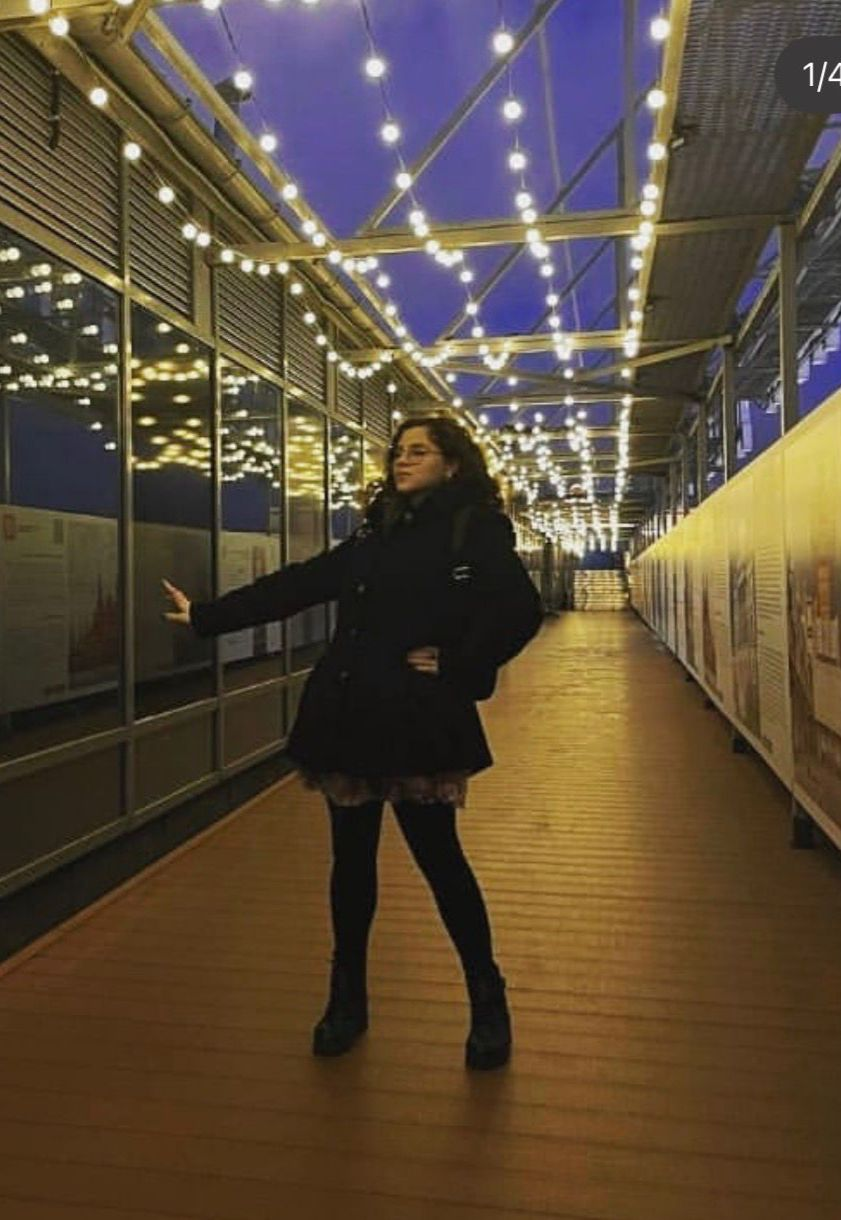
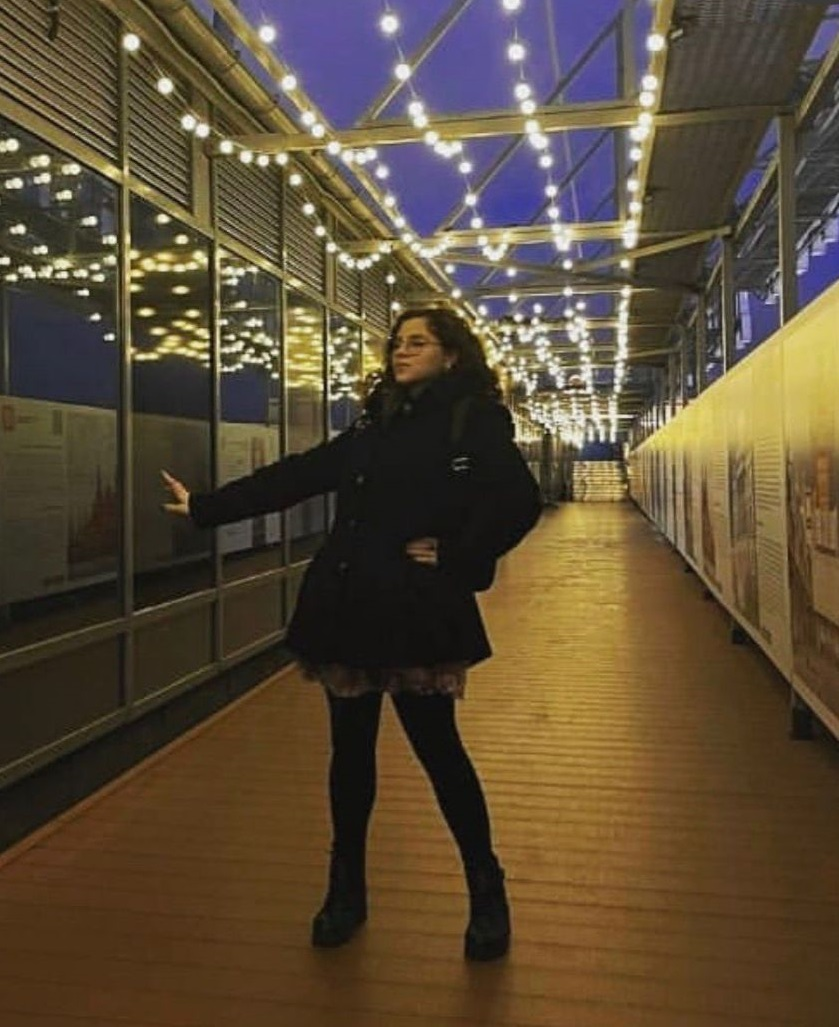
finished html 1st version

diff --git a/index.html b/index.html
@@ -33,7 +33,7 @@
       </div>
       <div class="header_image">
         <img
-          src="/images/WhatsApp Image 2026-04-24 at 13.09.25.jpeg"
+          src="/images/WhatsApp Image 2026-04-24 at 13.08.03.jpeg"
           alt="Foto de perfil de GEPC"
         />
       </div>
@@ -41,12 +41,12 @@
     <body class="skills_and_portfolio">
       <h2 class="skills">Habilidades y herramientas</h2>
       <nav>
-        <img class="icon1" src="images/Group 120570.png" alt="icon"/>
-        <img class="icon2" src="images/Group 2087326844.png" alt="icon"/>
-        <img class="icon3" src="images/Group 120568.svg" alt="icon"/>
-        <img class="icon4" src="images/Group 2087326846.png" alt="icon"/>
-        <img class="icon5" src="images/Group 2087326847.png" alt="icon"/>
-        <img class="icon6" src="images/Group 2087326848.png" alt="icon"/>
+        <img class="icon1" src="/images/Group 120570.png" alt="icon"/>
+        <img class="icon2" src="/images/Group 2087326844.png" alt="icon"/>
+        <img class="icon3" src="/images/Group 120568.svg" alt="icon"/>
+        <img class="icon4" src="/images/Group 2087326846.png" alt="icon"/>
+        <img class="icon5" src="/images/Group 2087326847.png" alt="icon"/>
+        <img class="icon6" src="/images/Group 2087326848.png" alt="icon"/>
       </nav>
       <h2 class="projects_title">Proyectos destacados</h2>
       <nav class="projects_container">
@@ -54,23 +54,48 @@
         <div class="coffeeshop">
           <img
             class="card__image"
-            src="images/Rectangle 3.png"
+            src="/images/Rectangle 3.png"
             alt="tripple_spresso"
           />
           <div class="card__content">
             <div class="card__info">
-              <h2 class="card__title">Página web de una cafeteria</h2>
+              <h3 class="card__title">Página web de una cafeteria</h3>
               <p class="card__description">
                 Desarrollo de una landing page responsiva para una cafetería siguiendo un brief de diseño. Incluye estructura semántica, maquetación con Flexbox, creación de secciones nuevas y un formulario de contacto funcional. Logro: Implementé desde cero el diseño completo de la página, organicé el proyecto con buenas prácticas y publiqué la versión final utilizando GitHub Pages.
               </p>
             </div>
             <a href="#" class="card__link">Leer más →</a>
-            <img src="images/Group 2087326850.png" href="https://github.com/elizabeth5233-dotcom/web_project_coffeeshop_es" class="card__link_github">
+            <img src="/images/Group 2087326850.png" href="https://github.com/elizabeth5233-dotcom/web_project_coffeeshop_es" class="card__link_github">
+          </div>
+        </div>
+      </section>
+      <section class="project_card">
+        <div class="project">
+          <img
+            class="card__image"
+            src="/images/Rectangle 5.png"
+            alt="New project"
+          />
+          <div class="card__content">
+            <div class="card__info">
+              <h3 class="card__title">Mi proyecto</h3>              
+            </div>
+            <a href="#" class="card__link">Leer más →</a>
+            <img src="/images/Group 2087326850.png" href="https://github.com/elizabeth5233-dotcom/web_project_coffeeshop_es" class="card__link_github">
           </div>
         </div>
       </section>
       </nav>
     </main>
   </body>
-  <footer></footer>
+  <footer>
+    <h2 class="footer__title">Contacto</h2>
+    <p class="email">gabaelizabeth5233@gmail.com</p>
+    <nav>
+      <img src="/images/LinkedIn.png" href="#" alt="Logo LinkedIn">
+      <img src="/images/facebook.png" href="#" alt="Logo facebook">
+      <img src="/images/Instagram.png" href="#" alt="Logo Instagram">
+      <img src="/images/X.png" href="#" alt="Logo X">
+    </nav>
+  </footer>
 </html>
